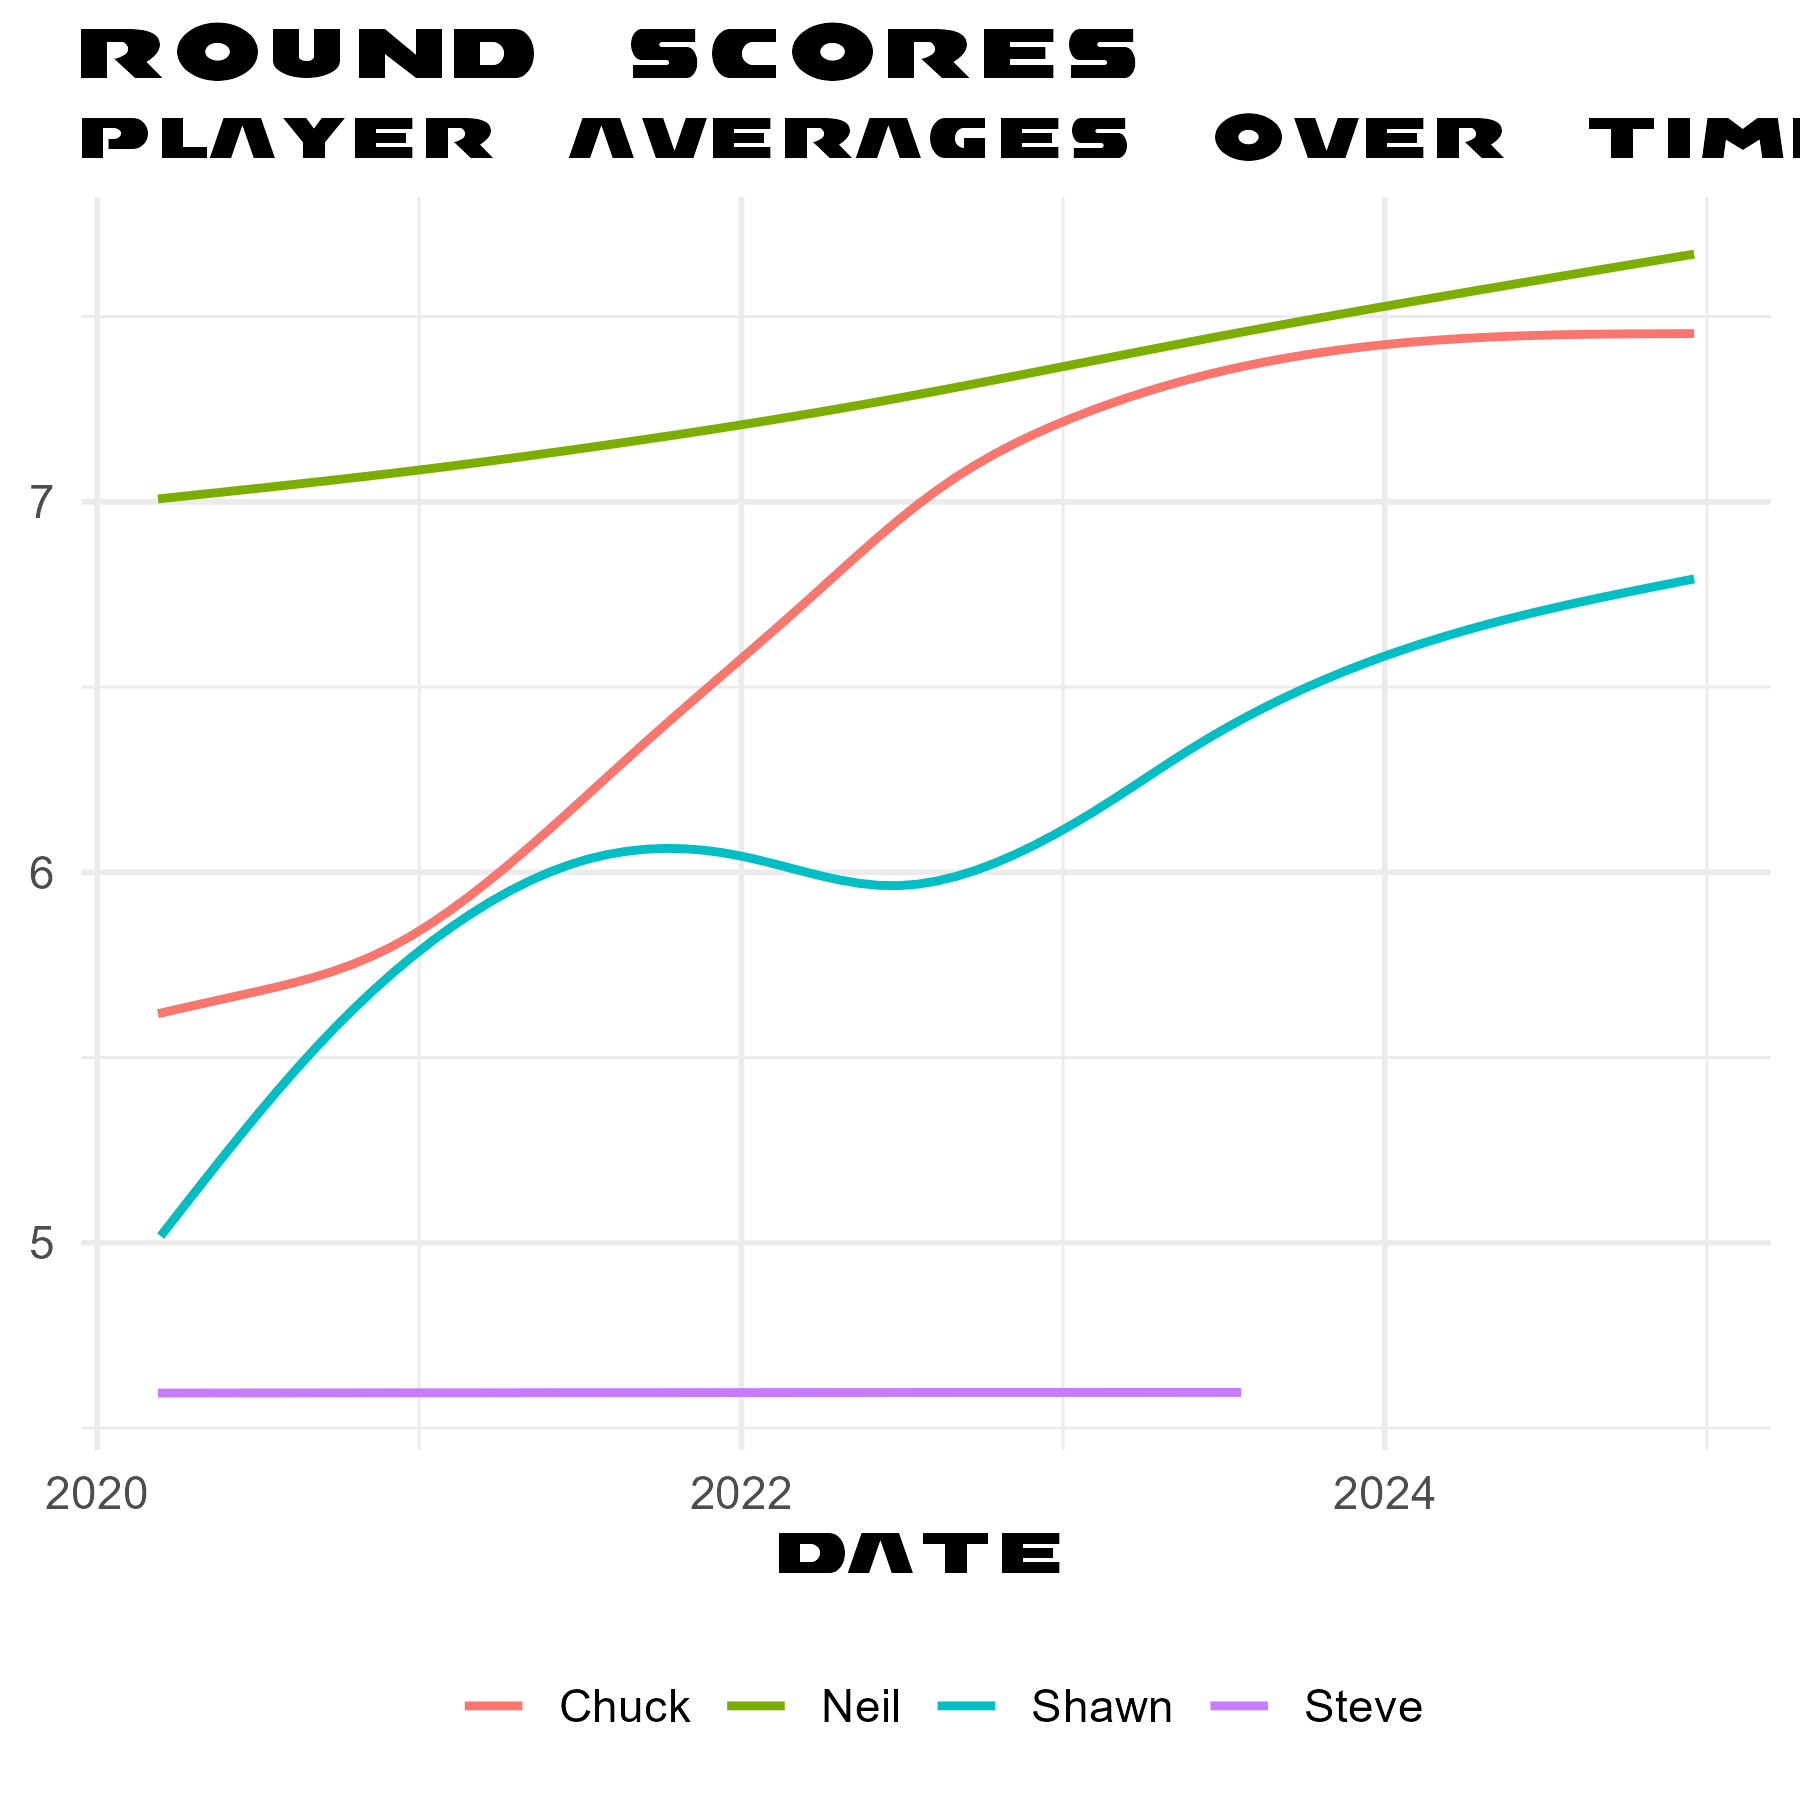
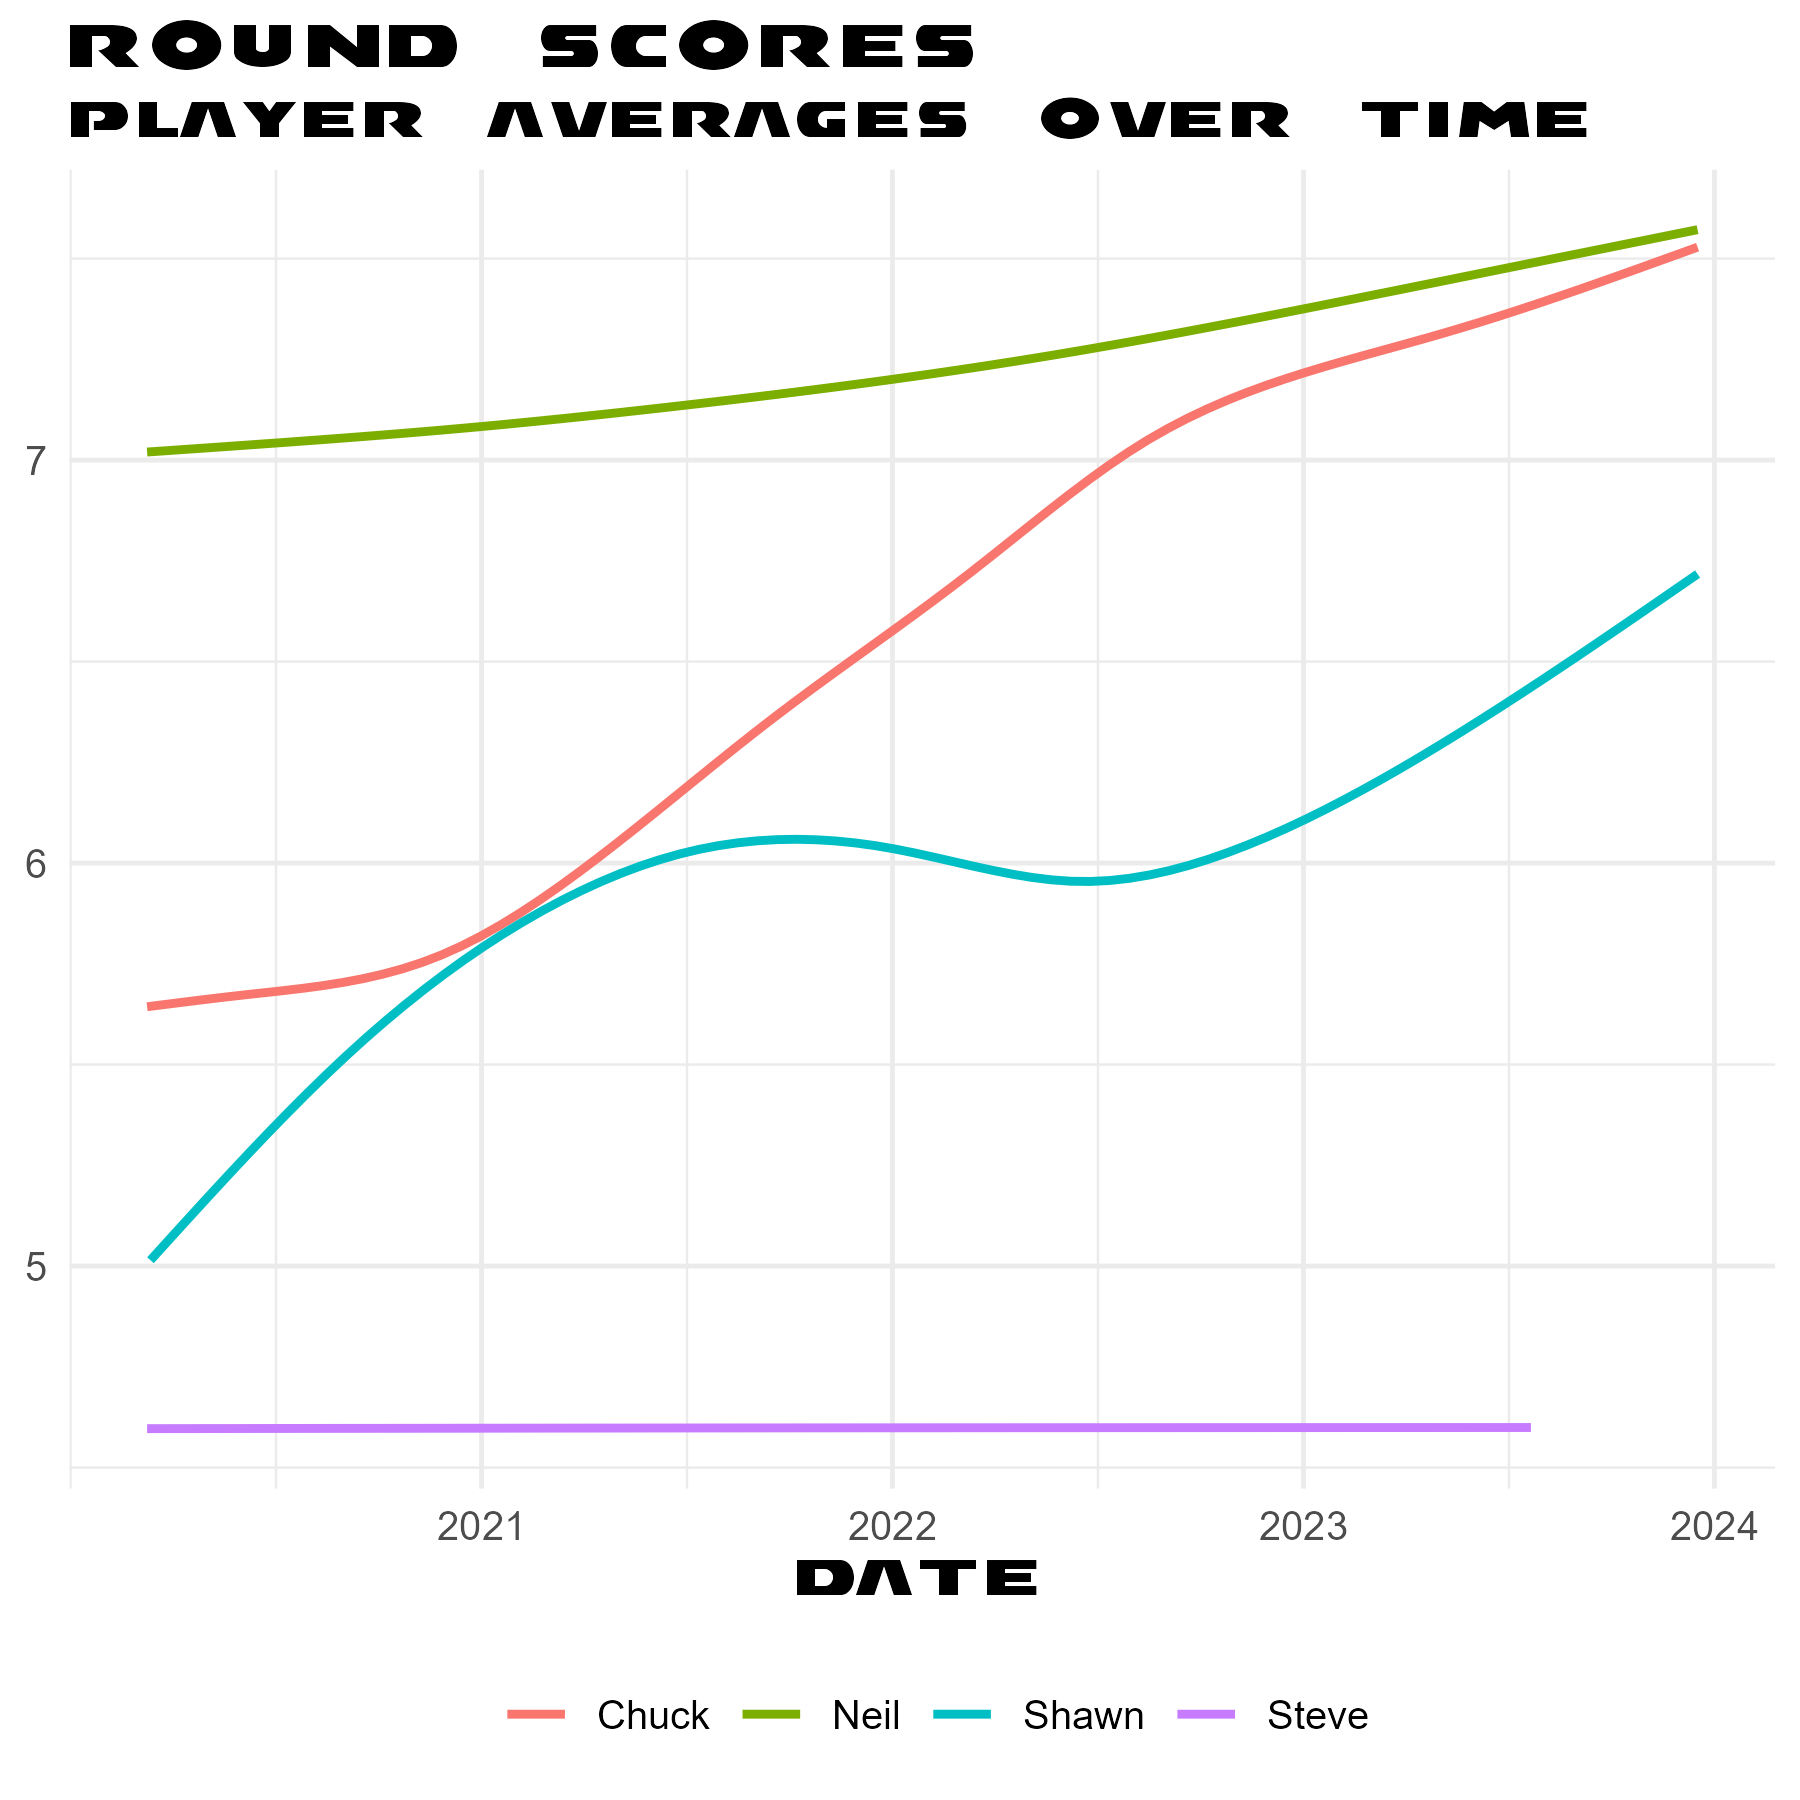
Plots!

diff --git a/docs/_site/pages/scores.html b/docs/_site/pages/scores.html
@@ -126,15 +126,15 @@ ul.task-list li input[type="checkbox"] {
 
 </header>
 
-<p><img src="img/avg_round_scores_plot.png" class="img-fluid" data-fig-align="center"> <img src="img/avg_round_scores_year_plot.png" class="img-fluid" data-fig-align="center"></p>
+<p><img src="../img/avg_round_scores_plot.png" class="img-fluid" data-fig-align="center"> <img src="../img/avg_round_scores_course_plot.png" class="img-fluid" data-fig-align="center"></p>
 <div class="quarto-figure quarto-figure-center">
 <figure class="figure">
-<p><img src="img/relative_strength_plot.png" class="img-fluid figure-img"></p>
+<p><img src="../img/relative_strength_plot.png" class="img-fluid figure-img"></p>
 </figure>
 </div>
 <div class="quarto-figure quarto-figure-center">
 <figure class="figure">
-<p><img src="img/relative_strength_year_plot.png" class="img-fluid figure-img"></p>
+<p><img src="../img/relative_strength_year_plot.png" class="img-fluid figure-img"></p>
 </figure>
 </div>
 
